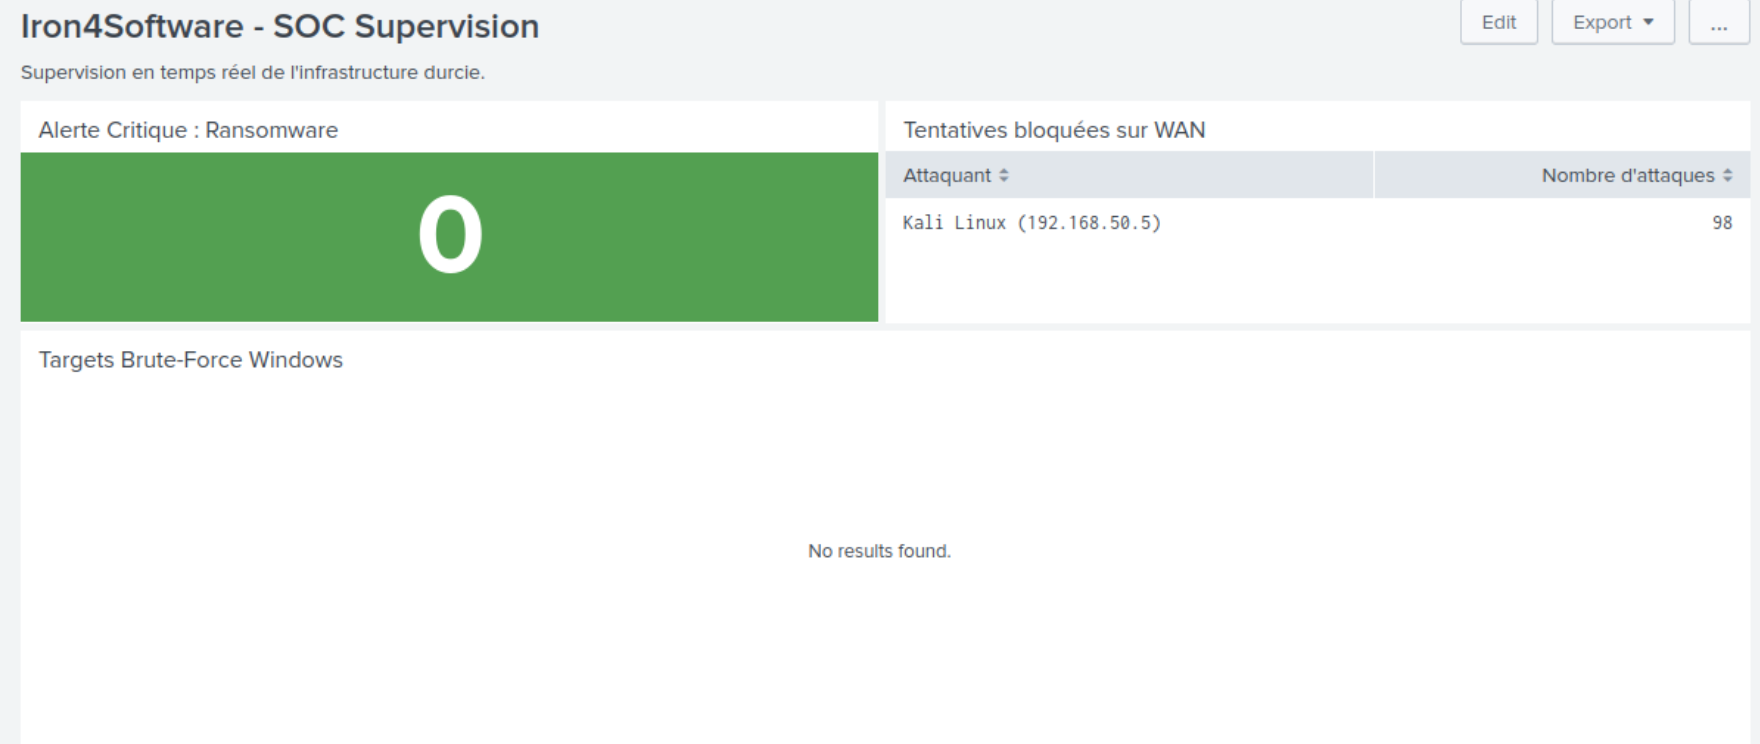
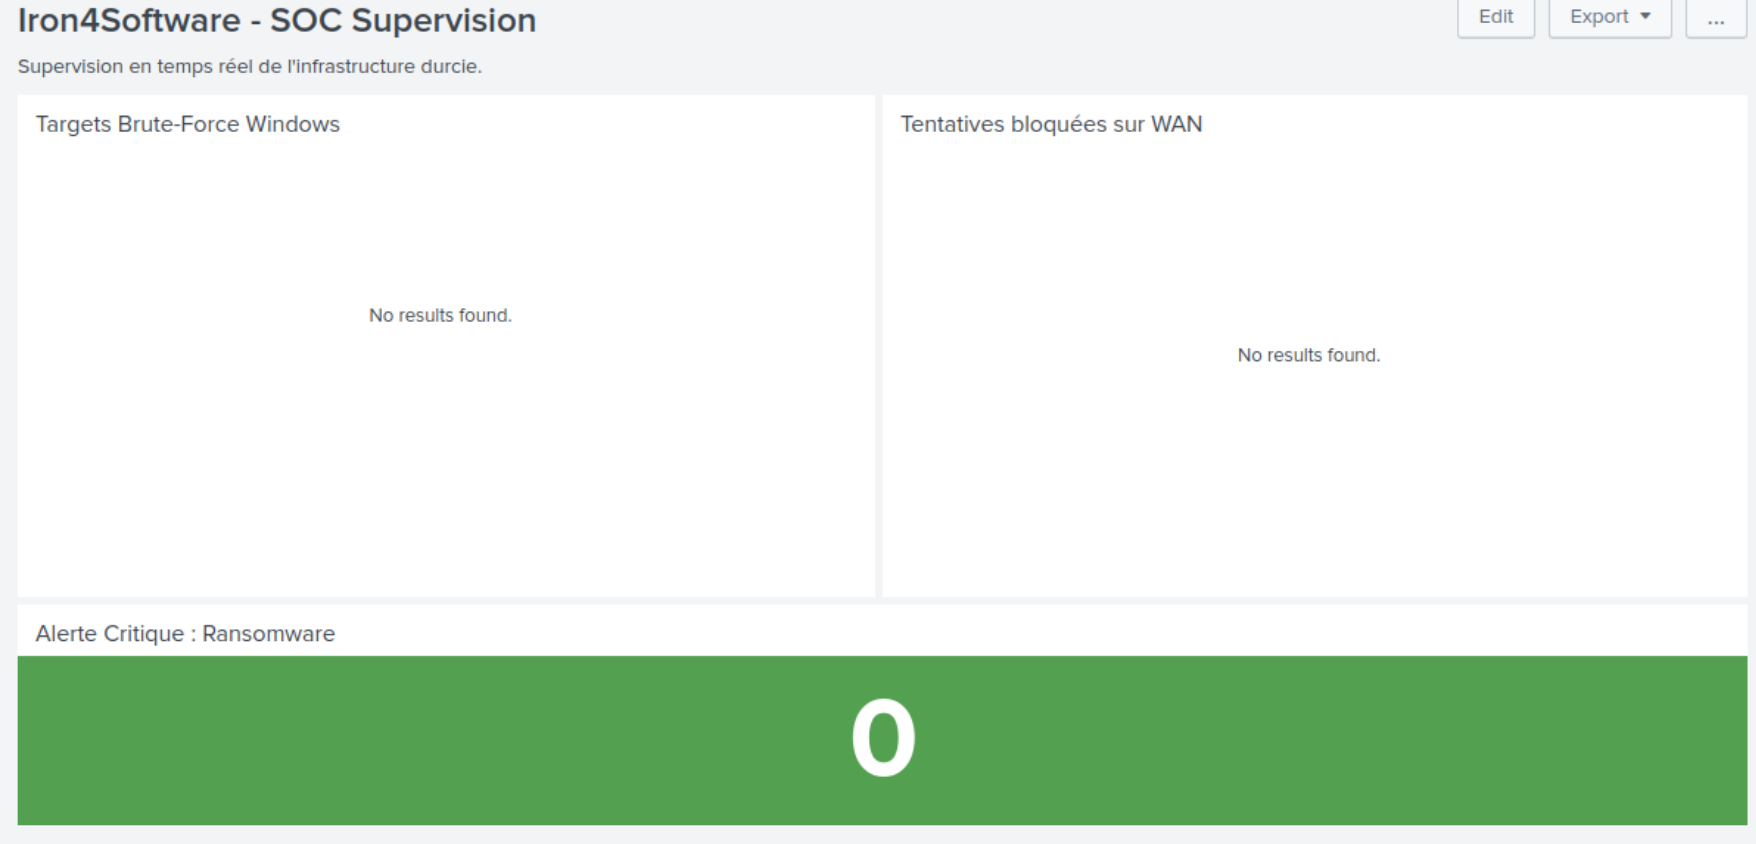
thm writeup new md file

diff --git a/Iron4Software-SOC-Project/Phase_5/Phase5_Re-attaque.md b/Iron4Software-SOC-Project/Phase_5/Phase5_Re-attaque.md
@@ -1,0 +1,141 @@
+# Phase 5 - Ré-attaque après Durcissement : Validation de l'Efficacité Défensive
+
+**Environnement :** Home Lab virtuel sur Proxmox pour le projet Iron4Software — Formation Analyste SOC - CyberUniversity (Liora x Sorbonne).
+
+## Objectif du Lab
+Les Phases 3 et 4 ont transformé l'infrastructure Iron4Software : périmètre verrouillé, hôtes durcis, pipeline de logs chiffré, alertes SOC opérationnelles. Mais un durcissement sans validation reste une hypothèse. L'objectif de cette phase est de rejouer les mêmes vecteurs d'attaque qu'en Phase 2 pour prouver l'efficacité des mesures mises en place, et de confronter chaque défense à une attaque réelle.
+
+La méthodologie adoptée est celle de l'**Assume Breach** : plutôt que de désactiver les défenses pour forcer un passage artificiel, je teste chaque couche indépendamment en assumant que la précédente a été franchie. Cette approche est standard en audit de sécurité — elle permet de valider chaque barrière sans compromettre les autres, et elle produit des preuves forensiques propres pour chaque vecteur. Elle permet également de justifier la détection interne (audit de fichiers, alertes SIEM) même face à un périmètre qui tient : la sécurité absolue n'existe pas, un employé peut brancher une clé USB infectée, un attaquant peut voler des credentials via du phishing. La deuxième ligne de défense doit fonctionner indépendamment de la première.
+
+## Outils et Technologies
+- **Reconnaissance :** Nmap, cURL (Kali Linux).
+- **Brute-Force :** CrackMapExec via SMB (Ubuntu, pivot interne).
+- **Validation RDP :** Remmina (Ubuntu).
+- **SIEM :** Splunk Enterprise — alertes Triggered, Dashboard SOC.
+- **Administration AD :** Utilisateurs et ordinateurs Active Directory (Windows Server 2019).
+- **Framework MITRE ATT&CK :** T1595 (Active Scanning), T1190 (Exploit Public-Facing Application), T1110.001 (Brute Force), T1486 (Data Encrypted for Impact).
+
+## 1. Test 1 — Reconnaissance Périmétrique : Le Mur pfSense
+
+### Contexte
+
+En Phase 2, le scan Nmap avait révélé le port 80 ouvert avec un service Apache actif et le webshell `shell.php` pleinement fonctionnel depuis le WAN. La Phase 3 a supprimé la règle "Allow All" et durci les règles NAT. Je rejoue le même scan depuis la machine Kali pour mesurer ce qui a changé.
+
+### Scan Nmap
+
+```bash
+nmap -A -p 80,443,3389,22 192.168.50.7
+```
+
+![](../Extras/Phase5/1.png)
+
+Ce scan cible les quatre ports stratégiques : le port 80 (webshell), le 443 (HTTPS), le 3389 (RDP exposé en Phase 2) et le 22 (SSH). Le résultat est sans appel : les quatre ports retournent le statut `filtered`. Le scan s'achève en 10 secondes contre 117 secondes en Phase 2 — cette différence de durée est elle-même significative : en Phase 2, Nmap recevait des réponses et pouvait effectuer de la détection de service. Ici, pfSense ignore totalement les paquets (Drop), ce qui force Nmap à attendre les timeouts sur chaque port avant de conclure.
+
+Le statut `filtered` est plus silencieux pour l'attaquant que `closed` : un port fermé répond avec un paquet RST, confirmant implicitement la présence d'un hôte. Un port filtré ne répond rien, laissant l'attaquant sans information sur ce qui se trouve derrière.
+
+### Tentative d'exploitation du Webshell
+
+```bash
+curl http://192.168.50.7/shell.php?cmd=whoami
+```
+
+![](../Extras/Phase5/2.png)
+
+La commande retourne immédiatement : `curl: (7) Failed to connect to 192.168.50.7 port 80 after 5102 ms: Could not connect to server`. Le navigateur lancé depuis Kali sur la même URL affiche `The connection has timed out`.
+
+Il est important de noter la précision technique ici : le webshell est inaccessible non seulement parce que les règles pfSense ont été durcies, mais aussi parce que la faille applicative a été corrigée côté serveur Ubuntu. Même si un attaquant parvenait à joindre le port 80 via un autre vecteur, le fichier `shell.php` n'est plus présent. Les deux couches — filtrage réseau et assainissement applicatif — fonctionnent en complémentarité.
+
+> **Contexte SOC & Blue Team :**
+> La différence entre `filtered` et `closed` est une information tactique pour l'analyste. Un pare-feu configuré en Drop plutôt qu'en Reject ne laisse aucune empreinte exploitable : l'attaquant ne peut pas distinguer un hôte protégé d'un hôte inexistant. Cette opacité est intentionnelle et constitue une bonne pratique de configuration périmétrique.
+
+## 2. Test 2 — Pivot Interne et Brute-Force : Le Mur GPO
+
+### Contexte et justification du pivot
+
+Le périmètre externe étant infranchissable depuis Kali, je bascule sur le scénario Assume Breach : un attaquant ayant compromis un service interne — le serveur web Ubuntu par exemple, qui dans un scénario réel aurait pu être infiltré via une autre vulnérabilité — tenterait d'étendre son accès vers le Contrôleur de Domaine. Je lance l'attaque depuis la machine Ubuntu (`192.168.3.20`) qui se trouve dans le même LAN que le Windows Server 2019 (`192.168.3.10`).
+
+Le protocole SMB est retenu pour le brute-force plutôt que RDP pour deux raisons : il génère des Event ID 4625 très précis dans les journaux Windows, et il est plus robuste pour les attaques automatisées à haute cadence.
+
+### Attaque Brute-Force SMB
+
+```bash
+crackmapexec smb 192.168.3.10 -u Administrateur -p passwords.txt
+```
+
+![](../Extras/Phase5/3.png)
+
+Les premières tentatives retournent `STATUS_LOGON_FAILURE` — comportement identique à la Phase 2. Mais contrairement à la Phase 2 où l'attaque avait pu s'étendre sur 34 tentatives sans interruption, la GPO de verrouillage configurée en Phase 3 (seuil à 5 tentatives) entre en jeu rapidement. En relançant la commande, CrackMapExec retourne `STATUS_ACCOUNT_LOCKED_OUT` dès la cinquième tentative infructueuse. L'attaque s'arrête net : le compte `Administrateur` est verrouillé au niveau du domaine et aucune tentative supplémentaire ne peut aboutir, quel que soit le mot de passe essayé.
+
+![](../Extras/Phase5/4.png)
+
+### Validation multi-couches du verrouillage
+
+**Côté Remmina (Ubuntu) :** Une tentative de connexion RDP vers `192.168.3.10` retourne immédiatement : `Could not access the RDP server "192.168.3.10". Account locked out.` L'interface graphique confirme que le verrouillage est effectif au niveau de l'authentification Windows, indépendamment du protocole utilisé.
+
+![](../Extras/Phase5/5.png)
+
+**Côté Active Directory (Windows Server 2019) :** Dans `Gestionnaire de serveur > Outils > Utilisateurs et ordinateurs Active Directory`, les propriétés du compte `Administrateur` affichent la case cochée : `Déverrouiller le compte. Ce compte est actuellement verrouillé sur ce contrôleur de domaine Active Directory`. C'est la preuve système que la GPO a opéré au niveau du domaine, pas seulement au niveau local.
+
+![](../Extras/Phase5/6.png)
+
+**Côté Splunk :** La recherche `index=main host="WIN-HKVM4FR00PS" EventCode=4625` retourne 20 événements concentrés sur une fenêtre temporelle très courte (7:03:48 PM à 7:03:49 PM le 24/04/2026), signature caractéristique d'un brute-force automatisé.
+
+![](../Extras/Phase5/7.png)
+
+Les alertes Triggered Alerts affichent trois déclenchements successifs de `Alert Brute Force Windows detected` avec sévérité Critical.
+
+![](../Extras/Phase5/8.png)
+
+> **Contexte SOC & Blue Team :**
+> La corrélation entre `STATUS_ACCOUNT_LOCKED_OUT` côté attaquant et le déclenchement de l'alerte Splunk côté défense est la démonstration concrète de la synergie GPO/SIEM mise en place en Phases 3 et 4. En Phase 2, ces événements 4625 étaient présents dans Splunk mais aucune alerte n'existait pour les signaler. En Phase 5, chaque tentative est tracée, le compte est verrouillé en moins d'une seconde, et l'analyste SOC est notifié dans les 5 minutes suivantes. La fenêtre d'action de l'attaquant est réduite à zéro.
+
+## 3. Test 3 — Simulation d'Impact Ransomware : Le Mur Audit/SIEM
+
+### Contexte
+
+Le brute-force ayant échoué, je passe au dernier scénario Assume Breach : un attaquant ayant obtenu des credentials par un autre vecteur (phishing, credential stuffing, compromission d'un poste utilisateur) et disposant d'un accès RDP légitime au serveur tente de déployer un ransomware. Je simule cet accès directement depuis la console du Windows Server 2019.
+
+Ce scénario est particulièrement important car il valide la deuxième ligne de défense indépendamment du périmètre : même si un attaquant parvient à s'authentifier, le SOC doit détecter son activité sur les données sensibles.
+
+### Déclenchement de l'alerte
+
+Dans le dossier `C:\PRIVATE - NE PAS RENTRER !`, je supprime et renomme une série de fichiers en simulant le comportement d'un ransomware : renommage avec extension `.crypt`, création de fichiers `LOCKED-INFO!!!` et `PAY BITCOIN!!!`, suppression des originaux. Tout ça est fait via rdp avec Remmina pour max d'authenticité.
+
+![](../Extras/Phase5/9.png)
+
+Chaque opération génère un Event ID 4663, capturé par l'audit NTFS configuré en Phase 3 et transmis via le tunnel TLS vers Splunk. Le dashboard SOC bascule immédiatement : le panel "Alerte Critique Ransomware" passe de 0 à **22** sur fond rouge. L'alerte `Alert Ransomware Detected !` apparaît dans le menu Triggered Alerts avec sévérité Critical.
+
+Le dashboard final montre simultanément les trois panels actifs : le Pie Chart "Targets Brute-Force Windows" affiche `WIN-HKVM4FR00PS` comme cible, le tableau "Tentatives bloquées sur WAN" comptabilise 2203 tentatives depuis `Kali Linux (192.168.50.5)`, et le compteur Ransomware affiche 22 en rouge.
+
+![](../Extras/Phase5/10.png)
+
+La liste chronologique des Fired Alerts raconte l'histoire complète de la session de test : plusieurs déclenchements successifs de `Alert Brute Force Windows detected` suivis de `Alert Ransomware Detected !`. C'est la timeline d'une attaque multicouche vue depuis le SOC — reconnaissance, tentative d'authentification, impact sur les données.
+
+![](../Extras/Phase5/11.png)
+
+> **Contexte SOC & Blue Team :**
+> Ce test valide l'architecture de détection en profondeur. Le périmètre (pfSense) a bloqué la reconnaissance. La GPO a neutralisé le brute-force. L'audit NTFS et le SIEM ont détecté l'impact sur les données dans un scénario où l'attaquant disposait d'un accès légitime. Ces trois couches sont indépendantes : la défaillance de l'une n'annule pas les autres. C'est précisément ce que la Défense en Profondeur cherche à garantir.
+
+## 4. Tableau Comparatif : Phase 2 (Avant) vs Phase 5 (Après)
+
+| Vecteur d'attaque | Résultat Phase 2 | Résultat Phase 5 | Mesure responsable |
+|---|---|---|---|
+| **Reconnaissance (Nmap)** | Ports ouverts, services identifiés, OS détecté | Tous les ports `filtered`, aucune information divulguée | pfSense — suppression règle Allow All |
+| **Accès Initial (Webshell)** | `shell.php` exécute des commandes en RCE | Timeout — connexion refusée | pfSense NAT + patch applicatif Ubuntu |
+| **Brute-Force SMB** | 34 tentatives, succès avec `Admin123` | `STATUS_ACCOUNT_LOCKED_OUT` après 5 essais | GPO — seuil de verrouillage à 5 tentatives |
+| **Accès RDP** | Connexion interactive établie avec les credentials volés | `Account locked out` — connexion refusée | GPO + Pare-feu Windows réactivé |
+| **Ransomware / Impact** | Fichiers chiffrés en silence, 0 alerte | 22 Event ID 4663 détectés, alerte Critical Splunk | Audit NTFS + alerte Splunk EventCode 4663 |
+| **Visibilité SOC** | Logs présents mais aucune alerte, SOC aveugle | 3 alertes Critical déclenchées, dashboard actif | Ingénierie de détection Phase 4 |
+
+## Implications pour un Analyste SOC
+
+La Phase 5 produit ce qu'un audit de sécurité doit toujours produire : une preuve mesurable de l'efficacité des contre-mesures. Le tableau comparatif résume six mois de travail en six lignes, mais derrière chaque ligne il y a une chaîne technique complète — une vulnérabilité identifiée, une mesure appliquée, un test de régression réussi.
+
+Le concept d'Assume Breach adopté pour cette phase est particulièrement pertinent dans un contexte SOC professionnel. Les outils de détection interne — audit de fichiers, corrélation d'événements, alertes SIEM — ne doivent pas être subordonnés à l'efficacité du périmètre. Un SOC mature part du principe que l'attaquant finira par entrer, et conçoit sa détection en conséquence.
+
+La chronologie des Fired Alerts de cette phase illustre parfaitement ce principe : brute-force détecté, compte verrouillé, puis ransomware détecté malgré un accès "légitime" aux credentials. Chaque couche a joué son rôle indépendamment. C'est la validation empirique de tout ce qui a été construit depuis la Phase 3.
+
+La prochaine étape — la Phase 6 (Réponse à Incident) — s'appuiera sur cette même infrastructure pour simuler la réaction opérationnelle : contention, éradication et récupération depuis les sauvegardes immuables configurées en Phase 3.
+
+---
+*Fin du rapport de Lab.*

diff --git a/Iron4Software-SOC-Project/Phase_4/Phase4_Splunk.md b/Iron4Software-SOC-Project/Phase_4/Phase4_Splunk.md
@@ -270,9 +270,9 @@ OR Accès="Ajout données (ou ajout sous-répertoire ou créer instance de canal
 | stats count
 ```
 
-Ce panel est le heartbeat de l'infrastructure. Il affiche un unique chiffre, vert à 0, rouge dès qu'il dépasse le seuil. En état nominal, le dashboard confirme : `0` en vert, intégrité des fichiers du dossier `PRIVATE` préservée. Lors du test de validation, il est passé à `11` en rouge, confirmant le déclenchement correct de la détection.
+Ce panel est le heartbeat de l'infrastructure. Il affiche un unique chiffre, vert à 0, rouge dès qu'il dépasse le seuil. En état nominal, le dashboard confirme : `0` en vert, intégrité des fichiers du dossier `PRIVATE` préservée. Lors du test de validation, il est passé à `14` en rouge, confirmant le déclenchement correct de la détection.
 
-Ici je montre l'avant et l'après du dashboard, le premier presque vièrge et le deuxième quand il détecte des anomalies:
+Ici je montre l'avant et l'après du dashboard, le premier est vièrge et le deuxième affiche les anomalies quand il les détecte :
 
 ![](../Extras/Phase4/12.png)
 